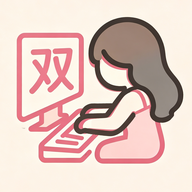
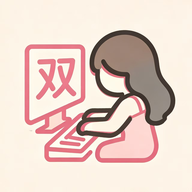
Add files via upload

Changed region(s): [[0.0625, 0.0625, 0.9688, 0.875]]

diff --git a/styles.css b/styles.css
@@ -3318,29 +3318,35 @@ button:disabled {
 }
 
 .record-switch {
-  display: inline-flex;
-  align-items: center;
-  gap: 6px;
-  padding: 4px;
-  border: 1px solid rgba(188, 83, 106, 0.12);
+  display: grid;
+  grid-template-columns: repeat(2, minmax(0, 1fr));
+  align-items: stretch;
+  gap: 0;
+  width: min(220px, 100%);
+  margin-left: auto;
+  padding: 2px;
+  border: 1px solid rgba(223, 142, 160, 0.18);
   border-radius: 999px;
-  background: #fff7f9;
+  background: #fff2f5;
+  overflow: hidden;
 }
 
 .record-tab {
-  min-height: 34px;
-  padding: 0 14px;
+  display: grid;
+  place-items: center;
+  min-height: 36px;
+  padding: 0 10px;
   border: 0;
   border-radius: 999px;
-  background: transparent;
-  color: #8f7770;
+  background: #fff7f9;
+  color: #b27b86;
   font-size: 0.84rem;
   font-weight: 760;
   box-shadow: none;
 }
 
 .record-tab.active {
-  background: #bc536a;
+  background: #df8ea0;
   color: #fffdfd;
 }
 
@@ -3497,14 +3503,6 @@ button:disabled {
 .schedule-board-stack {
   display: grid;
   gap: 12px;
-}
-
-.schedule-desktop-board {
-  display: block;
-}
-
-.schedule-mobile-board {
-  display: none;
 }
 
 .schedule-table-shell {
@@ -3740,13 +3738,25 @@ button:disabled {
   box-shadow: 0 10px 24px rgba(223, 142, 160, 0.18);
 }
 @media (max-width: 760px) {
-  .schedule-desktop-board {
-    display: none;
+  .schedule-table th,
+  .schedule-table td {
+    padding: 5px 3px;
   }
 
-  .schedule-mobile-board {
-    display: grid;
-    gap: 10px;
+  .schedule-table thead th,
+  .schedule-table tbody th {
+    font-size: 0.68rem;
+  }
+
+  .schedule-entry {
+    min-height: 24px;
+    padding: 3px 5px;
+    font-size: 0.66rem;
+  }
+
+  .schedule-empty-slot {
+    min-height: 24px;
+    font-size: 0.66rem;
   }
 }
 
@@ -3760,6 +3770,6 @@ button:disabled {
   }
 
   .record-tab {
-    flex: 1 1 0;
+    min-width: 0;
   }
 }

diff --git a/app.js b/app.js
@@ -1316,27 +1316,9 @@ function buildScheduleTable(items, interactive = true) {
       }).join("")}
     </tr>
   `).join("");
-  const mobileDays = scheduleDays.map((day) => `
-    <article class="schedule-day-card">
-      <div class="schedule-day-head">${weekNames[day]}</div>
-      <div class="schedule-day-slots">
-        ${scheduleSlots.map((slot) => {
-          const itemsAtSlot = tableMap.get(`${day}|${slot}`) || [];
-          return `
-            <div class="schedule-slot-row">
-              <time class="schedule-slot-time">${escapeHtml(slot)}</time>
-              <div class="schedule-slot-items">
-                ${itemsAtSlot.length ? itemsAtSlot.map((item) => renderEntry(item)).join("") : `<span class="schedule-empty-slot">—</span>`}
-              </div>
-            </div>
-          `;
-        }).join("")}
-      </div>
-    </article>
-  `).join("");
   return `
     <div class="schedule-board-stack">
-      <div class="schedule-table-shell schedule-desktop-board">
+      <div class="schedule-table-shell">
         <table class="schedule-table">
           <thead>
             <tr>
@@ -1348,9 +1330,6 @@ function buildScheduleTable(items, interactive = true) {
             ${desktopRows}
           </tbody>
         </table>
-      </div>
-      <div class="schedule-mobile-board">
-        ${mobileDays}
       </div>
     </div>
   `;

diff --git a/sw.js b/sw.js
@@ -1,4 +1,4 @@
-const CACHE_NAME = "personal-workbench-v85";
+const CACHE_NAME = "personal-workbench-v86";
 const ASSETS = [
   "./",
   "./index.html",
